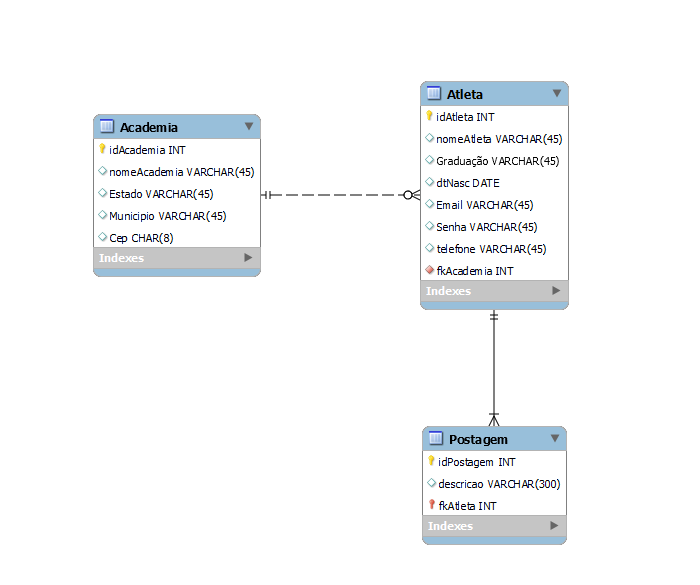
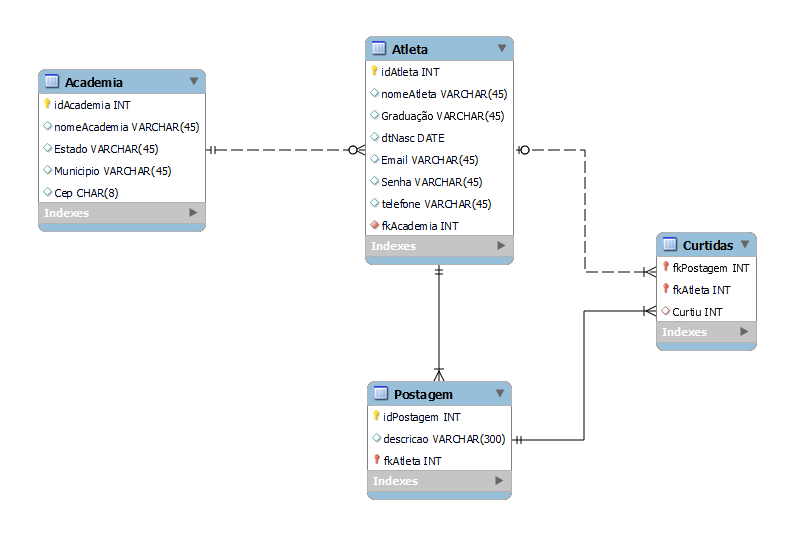
alterações basicas na estilização, verificar API de curtidas com monitores

Changed region(s): [[0.03, 0.0597, 0.96, 0.6567], [0.45, 0.6866, 0.81, 0.9552]]

diff --git a/api-site/public/feed.html b/api-site/public/feed.html
@@ -41,6 +41,7 @@
         </div>
 
         <!-- FEED -->
+        <div id='nomedousuario'><span id='sessaoatual'></span></div>
             <div class='postagem'>
                 <form id='form_postagem' method="post" onsubmit="return publicar()">
 
@@ -98,6 +99,7 @@
 
 
     function atualizarFeed() {
+    
         fetch("/postagem/listar").then(function (resposta) {
             if (resposta.ok) {
                 if (resposta.status == 204) {
@@ -120,12 +122,13 @@
                         var divPublicacao = document.createElement("div");
                         var spanNome = document.createElement("span");
                         var divDescricao = document.createElement("div");
-                        var botaolike = document.createElement("button");       
+                        var botaolike = document.createElement("button");
 
 
                         spanNome.innerHTML = "<b>" + publicacao.nomeAtleta + "</b>" + " - " + publicacao.graduacao + '<br><br>';
                         divDescricao.innerHTML =  publicacao.descricao ;
-                        botaolike.innerHTML = 'Curtir';
+                        botaolike.innerHTML = 'curtir 0' ;
+                        
                         
 
                         divPublicacao.className = "publicacao";
@@ -133,7 +136,7 @@
                         divDescricao.className = "publicacao-descricao";
                         botaolike.className = 'btn_feed';
                         
-
+                        
 
                         divPublicacao.appendChild(spanNome);
                         divPublicacao.appendChild(divDescricao);
@@ -161,12 +164,12 @@ function validarSessao() {
 
     var email = sessionStorage.EMAIL_USUARIO;
     var nome = sessionStorage.NOME_USUARIO;
-
+    
     if (email == null && nome == null) {
         
         window.location = "../index.html";
     }
 }
 
-
+sessaoatual.innerHTML = sessionStorage.NOME_USUARIO;
 </script>

diff --git a/api-site/public/cadastro.html b/api-site/public/cadastro.html
@@ -91,7 +91,7 @@
                             <label class="label_input" for="acad">Academia: </label>
                             <br>
                             <select id='in_academia' name='academia' >
-                                <option value="null">Sem academia</option>
+                                <option value="">Sem academia</option>
                                 <option value="1">Inova</option>
                                 <option value="2">Tiger Thai</option>
                                 <option value="3">Team Nogueira</option>
@@ -99,7 +99,7 @@
                                 <option value="5">Thai Fighters</option>
                                 <option value="6">Thai Combat</option>
                                 <option value="7">Thai Brasil</option>
-                                <option value="null">Outra academia</option>
+                                <option value="">Outra academia</option>
                             </select>
                         </div>
                     </div>

diff --git a/api-site/src/controllers/curtidaController.js b/api-site/src/controllers/curtidaController.js
@@ -1,0 +1,34 @@
+
+var curtidaModel = require("../models/curtidaModel");
+
+function curtirPost(req, res) {
+    var idFeed = req.body.idFeed;
+
+    if (idFeed == undefined) {
+        res.status(400).send('Erro');
+    }
+
+    curtidaModel.curtirPost(idFeed).then(function (res){
+        res.status(200).send('Tudo certo');
+    }).catch(function(erro) {
+        console.log(erro);
+        res.status(500).send("Erro (erro de servidor)", erro);
+    })
+
+    res.send('Tudo certo')
+}
+
+function listarCurtidas(req, res) {
+
+    curtidaModel.listarCurtidas().then(function (resultado){
+        res.status(200).json(resultado);
+    }).catch(function(erro) {
+        console.log(erro);
+        res.status(500).send("Erro (erro de servidor)", erro);
+    });
+}
+
+module.exports = {
+    curtirPost,
+    listarCurtidas
+}

diff --git a/api-site/app.js b/api-site/app.js
@@ -1,5 +1,4 @@
 process.env.AMBIENTE_PROCESSO = "desenvolvimento";
-// process.env.AMBIENTE_PROCESSO = "producao";
 
 var express = require("express");
 var cors = require("cors");
@@ -12,6 +11,8 @@ var indexRouter = require("./src/routes/index");
 var usuarioRouter = require("./src/routes/usuarios");
 var postagemRouter = require("./src/routes/postagem");
 var graficoRouter = require("./src/routes/grafico");
+var curtidasRouter = require("./src/routes/curtidas");
+
 
 
 app.use(express.json());
@@ -24,6 +25,7 @@ app.use("/", indexRouter);
 app.use("/usuarios", usuarioRouter);
 app.use("/postagem", postagemRouter);
 app.use("/graficos", graficoRouter);
+app.use("/curtidas", curtidasRouter);
 
 
 

diff --git a/api-site/src/models/curtidaModel.js b/api-site/src/models/curtidaModel.js
@@ -1,0 +1,31 @@
+var database = require("../database/config")
+
+var contador = 0
+
+console.log(contador);
+
+function curtirPost(idFeed) {
+
+    contador++;
+
+    var instrucao = `
+        insert into curtidas values ('${idFeed}', '${idAtleta}', '1'); 
+    `;
+    console.log("Executando a instrução SQL: \n" + instrucao);
+    return database.executar(instrucao);
+}
+
+
+function listarCurtidas() {
+
+    var instrucao = `
+        select * from curtidas group by fkfeed;
+    `;
+    console.log("Executando a instrução SQL: \n" + instrucao);
+    return database.executar(instrucao);
+}
+
+module.exports = {
+    curtirPost,
+    listarCurtidas
+}

diff --git a/api-site/public/css/feed.css b/api-site/public/css/feed.css
@@ -40,6 +40,20 @@ a{
     -webkit-text-stroke-width: 0.2px;
     -webkit-text-stroke-color: black;
 }
+#nomedousuario{
+    margin-top: 20px;
+    font-size: 25px;
+    text-align: center;
+}
+#sessaoatual{
+    background-color: #03497a;
+    color: #fafafa;
+    font-weight: 600;
+    padding: 10px;
+    border-radius: 10px;
+    border: 1px solid black;
+    box-shadow: 1.5px 1.5px black;
+}
 .postagem{
     display: flex;
     justify-content: center;
@@ -121,6 +135,8 @@ a{
       font-weight: 600;
       height: 21px;
       border-radius: 5px;
+      text-align: center;
+      font-size: 14px;
   }
 
   .msg_class{

diff --git a/api-site/public/analytics.html b/api-site/public/analytics.html
@@ -5,7 +5,7 @@
     <meta charset="UTF-8">
     <meta http-equiv="X-UA-Compatible" content="IE=edge">
     <meta name="viewport" content="width=device-width, initial-scale=1.0">
-    <title>Cadastro de academia</title>
+    <title>Analytics</title>
     <link rel="stylesheet" href="./css/analytics.css">
     <link rel="icon" href="./img/logo_pi.png">
     <script src="https://cdn.jsdelivr.net/npm/chart.js"></script>

diff --git a/api-site/src/routes/curtidas.js b/api-site/src/routes/curtidas.js
@@ -1,0 +1,14 @@
+var express = require("express");
+var router = express.Router();
+
+var curtidaController = require("../controllers/curtidaController")
+
+router.post("/curtirPost", function (req, res) {
+    curtidaController.curtirPost(req, res)
+});
+
+router.get("/listarCurtidas", function (req, res) {
+    curtidaController.listarCurtidas(req, res)
+});
+
+module.exports = router;

diff --git a/api-site/public/graduacao.html b/api-site/public/graduacao.html
@@ -4,7 +4,7 @@
     <meta charset="UTF-8">
     <meta http-equiv="X-UA-Compatible" content="IE=edge">
     <meta name="viewport" content="width=device-width, initial-scale=1.0">
-    <title>Cadastro de academia</title>
+    <title>Graduações</title>
     <link rel="stylesheet" href="./css/graduacao.css">
     <link rel="icon" href="./img/logo_pi.png">
 </head>

diff --git a/api-site/public/index.html b/api-site/public/index.html
@@ -116,7 +116,6 @@
                     sessionStorage.ID_USUARIO = json.idAtleta;
 
                 });
-
                 window.location = "/feed.html"
             } else {
 
